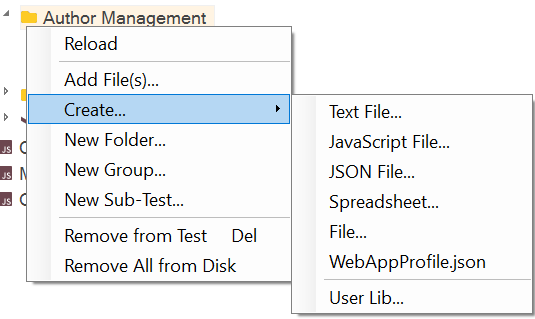
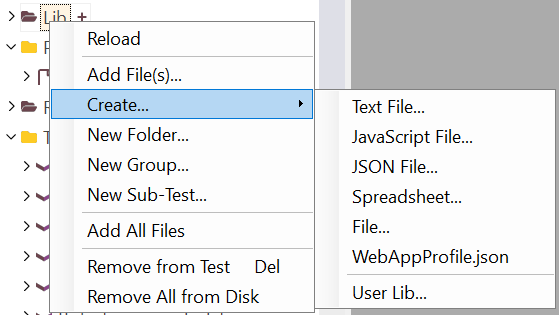
1. Filter description updated for Object Tree and Test Tree. 2. Collapse All / Expand All context menu. 3. Add All Files

diff --git a/docs/Guide/test_files_dialog.md b/docs/Guide/test_files_dialog.md
@@ -41,6 +41,14 @@ See [Adding Files for Test Folder](#adding-files-from-test-folder).
 * ... same as context menu for [Folder Node](#folder-context-menu)
 * **Rebuild Framework Metadata...**: Forces the regeneration of metadata for the entire framework.
 
+## Filtering
+
+Object Tree has build in filtering and display mode switches.
+
+![Filter](img/test_files_dialog_filter.png){width="241px"}
+
+- *Filter* - quick filter to narrow down range displayed in the object tree. Updates the tree while you type. If you want to cancel the filtering then simply remove everything from this input box or press `X` icon or press ++esc++ on your keyboard.
+
 ## Folder Node
 
 Shows contents of the [Folder or Filter Group](#folders-and-filter-groups).
@@ -49,7 +57,7 @@ Shows contents of the [Folder or Filter Group](#folders-and-filter-groups).
 
 Right click on a folder to see:
 
-![Folder Menu](./img/test_files_dialog_context_folder.png)
+![Folder Menu](img/test_files_dialog_context_folder.png)
 
 * **Reload**: Refresh group contents. Use it for [filter groups](../test_files_dialog/#filtergroup)  ('IsFilterGroup' is set to 'True' in group properties), e.g. for Report group.
 * **Add File(s)**: Add an existing file to the test.
@@ -64,6 +72,7 @@ Right click on a folder to see:
 * **New Group**:  Create a logical grouping of files in the test. This will **not** add a folder to the file system.
 * **New Folder**:  Create a real folder in the test. This will add a folder to the file system.
 * **New Sub-Test**: Launch Create Sub-Test dialog.
+* **Add All Files**: In [Show Files and Folders](#show-files-and-folders) mode, you may add all external files at once using this menu items.
 * **Remove from Test**: Remove the selected grouping from the test.  This does **not** delete included files from your hard disk.
 * **Remove All from Disk**: Remove all files included into the selected grouping from your hard disk.
 

diff --git a/docs/Guide/object_tree.md b/docs/Guide/object_tree.md
@@ -18,11 +18,7 @@ Object Tree has build in filtering and display mode switches.
 
 ![Filter](./img/object_tree_filter.png){width="241px"}
 
-- *Filter* - quick filter to narrow down range displayed in the object tree. Updates the tree while you type. If you want to cancel the filtering then simply remove everything from this input box.
-- Display modes switch:
-    - `id` - show object IDs in the tree.
-    - `n` - show object names in the tree.
-    - `id[n]` - show each object in format `object_id [ object_name ]` in the tree.
+- *Filter* - quick filter to narrow down range displayed in the object tree. Updates the tree while you type. If you want to cancel the filtering then simply remove everything from this input box or press `X` icon or press ++esc++ on your keyboard.
 
 ## Testing Framework Mode
 
@@ -41,6 +37,8 @@ The node represents framework [test cases](./Frameworks/frameworks.md#test-cases
 - **Play All** - Run all root test cases except those marked with `template` or `skip` tags.
 - **Play All (Recursive)** - Run all test cases except those marked with `template` or `skip` tags.
 - **Reveal in Explorer** - Open `TestCases` folder in file explorer.
+- **Expand All** - Expand all nodes below.
+- **Collapse All** - Collapse all nodes below.
 - **Reload** - Reload all test cases (may be needed if test were synchronized with remote repository).
 
 #### Test Cases Group Context Menu
